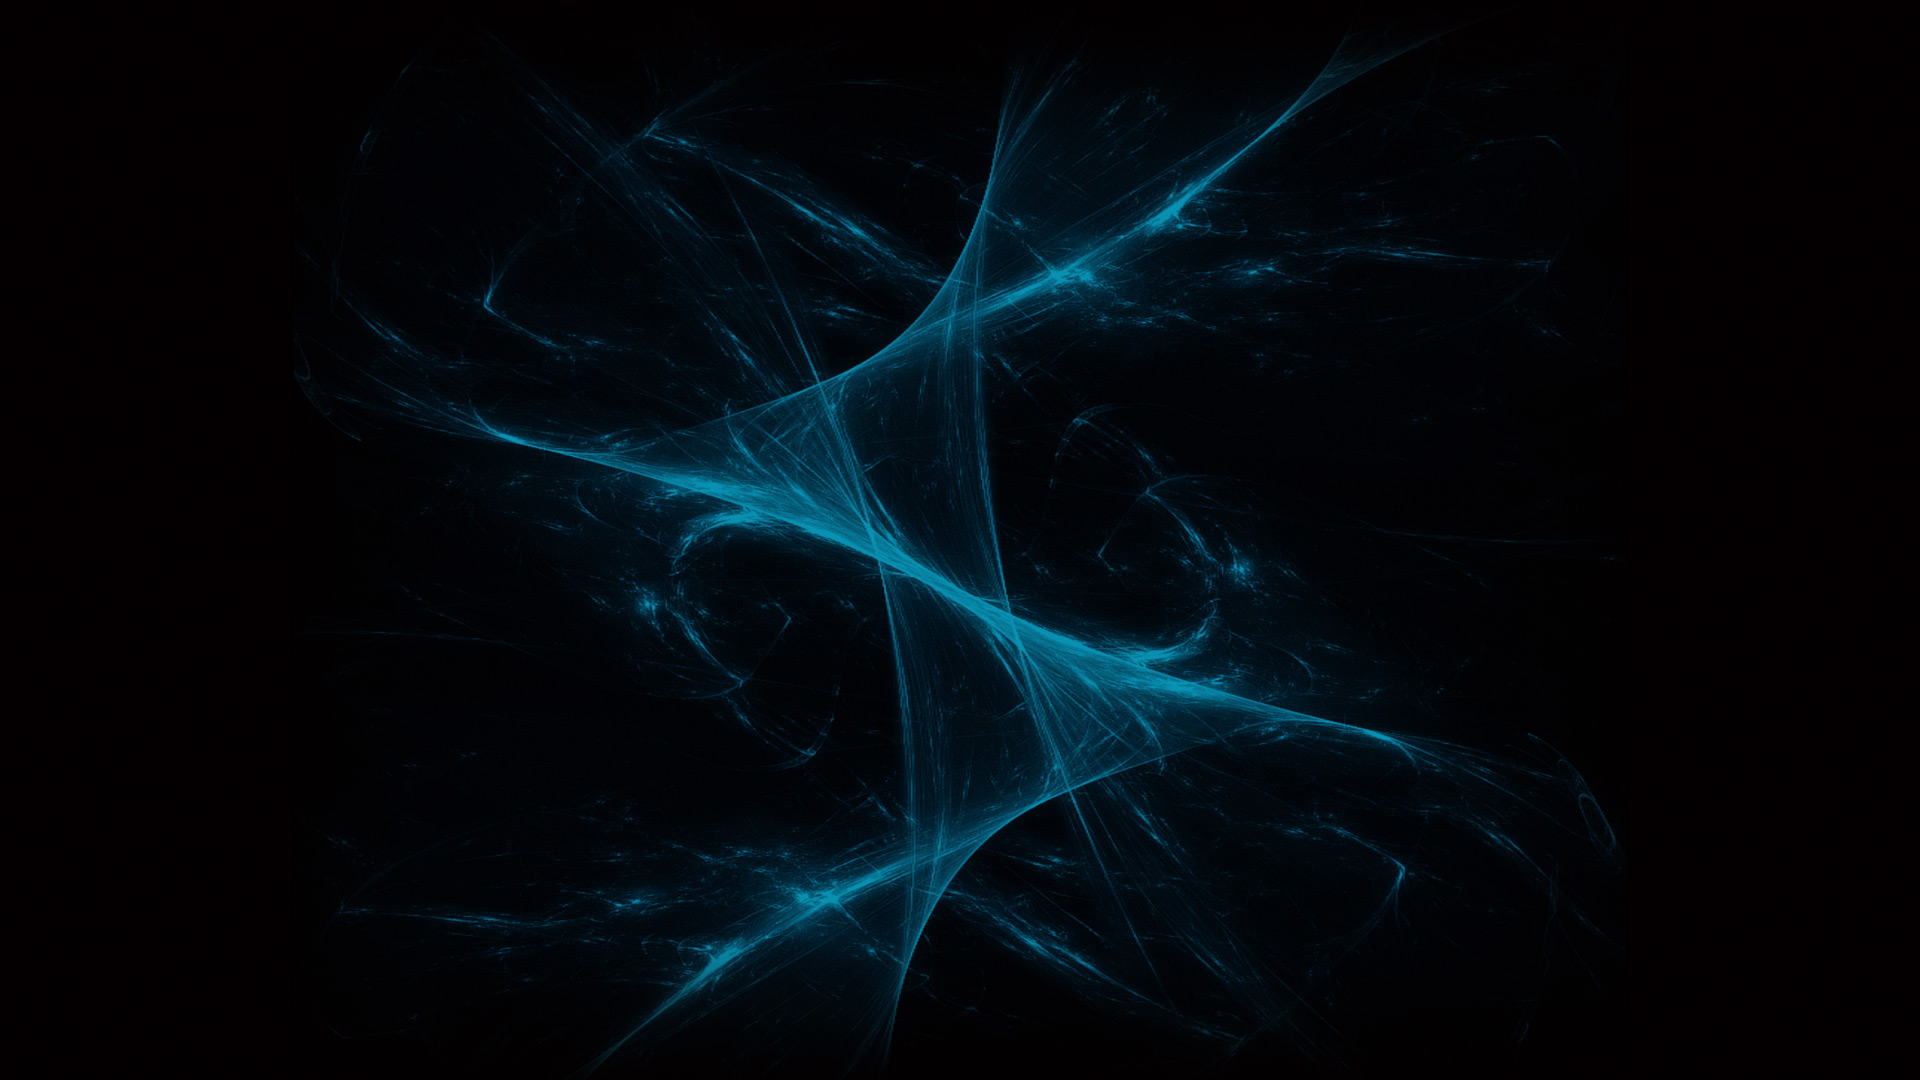
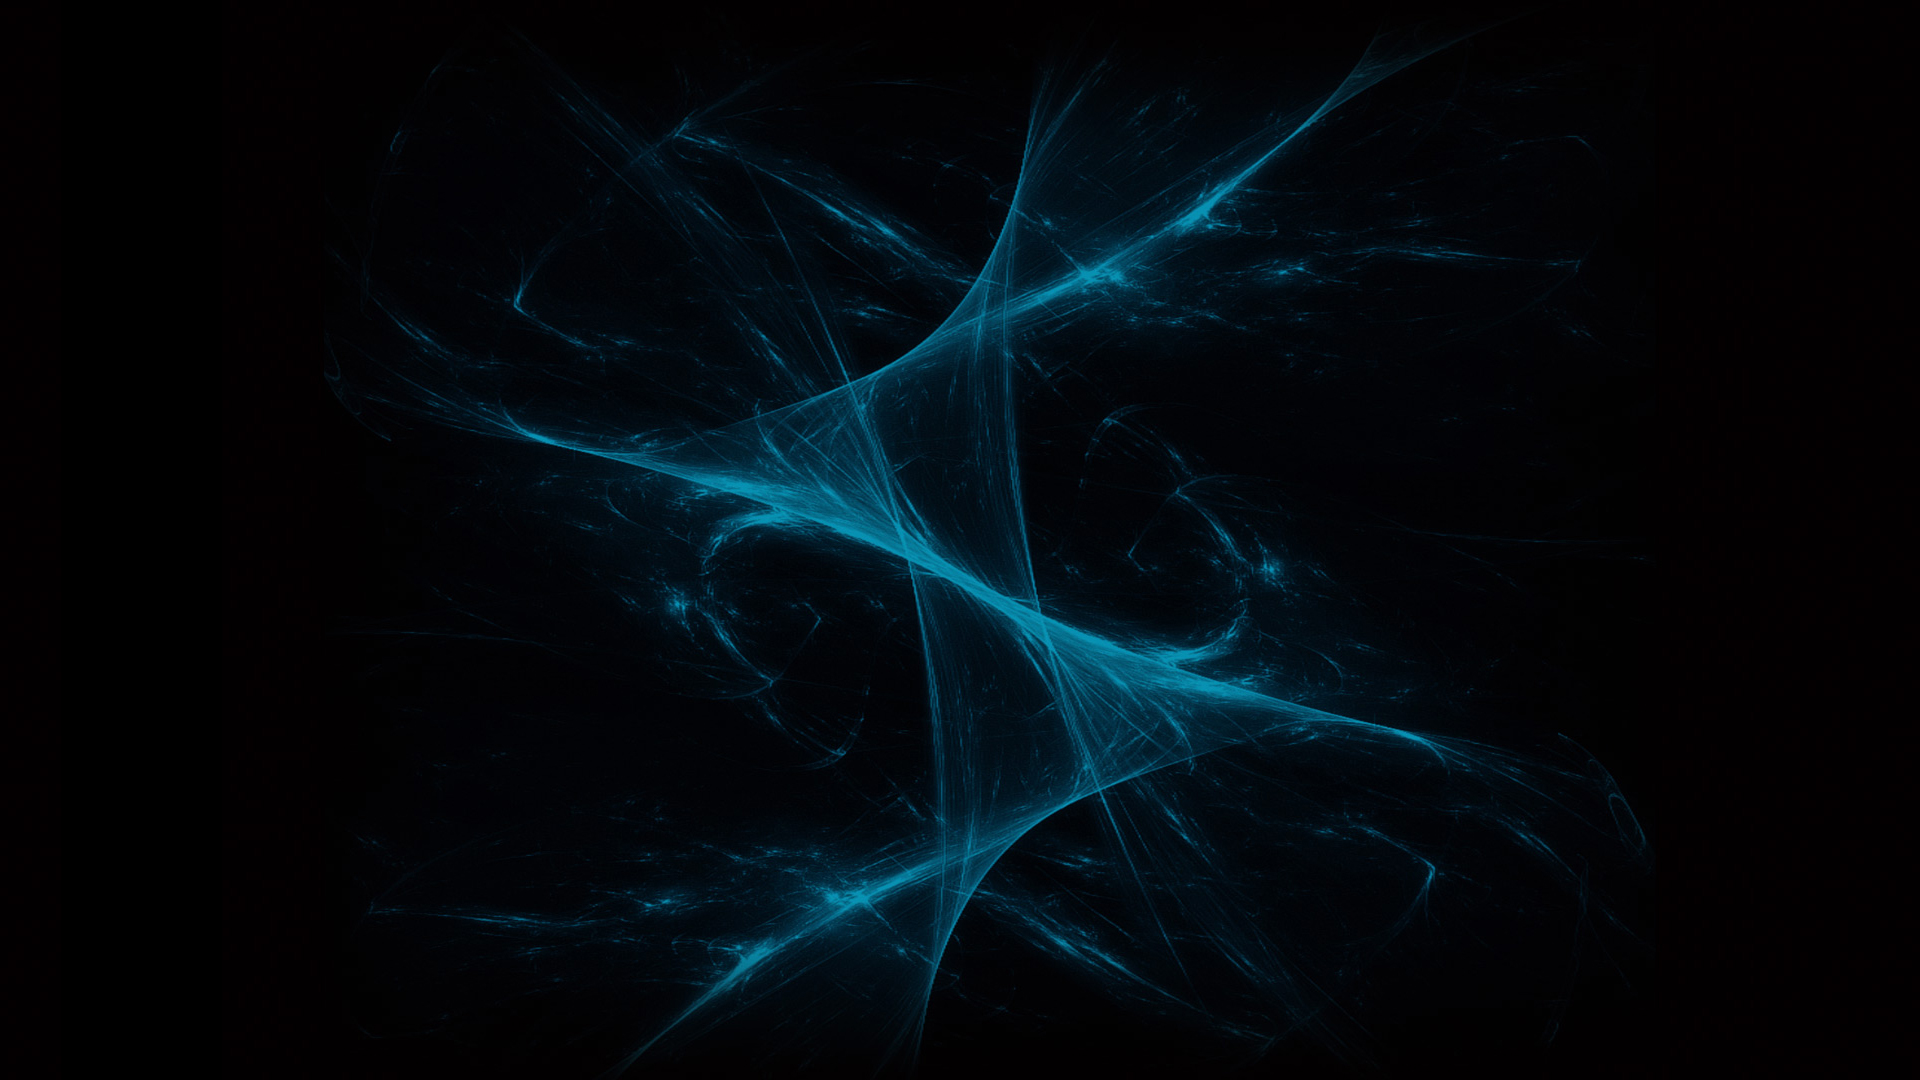
BG - move 20px

diff --git a/css/main.css b/css/main.css
@@ -117,7 +117,8 @@ h3{ color: #1990b2; text-shadow: 1px 1px 1px rgba(0, 0, 0, 1);}
 	-ms-transform:scale(0.8, 0.8);
 	transform:scale(0.8, 0.8);
 	-webkit-transition:opacity 0.3s ease-in-out, visibility 0.3s ease-in-out, -webkit-transform 0.3s ease-in-out;
-	transition:opacity 0.3s ease-in-out, visibility 0.3s ease-in-out, transform 0.3s ease-in-out
+	transition:opacity 0.3s ease-in-out, visibility 0.3s ease-in-out, transform 0.3s ease-in-out;
+  text-align: center;
 }
 
 .columns{
